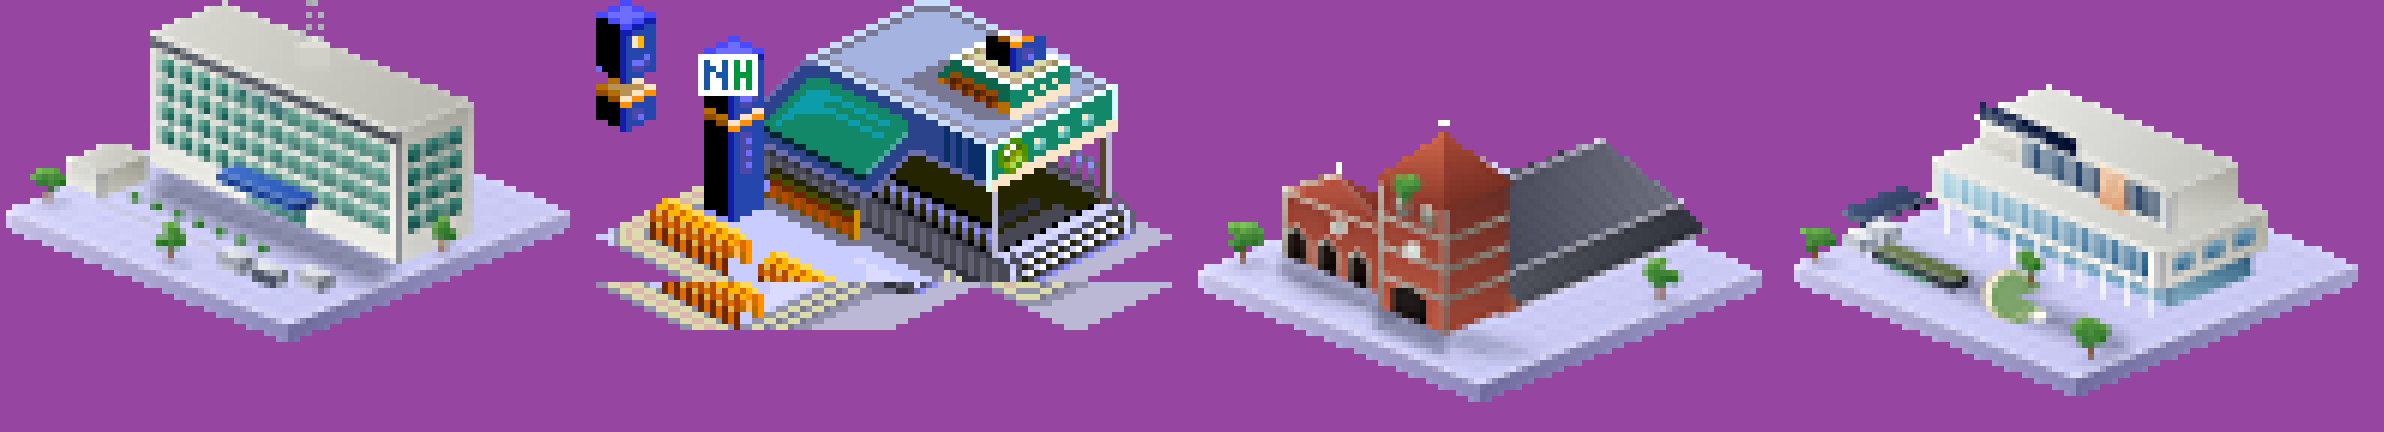
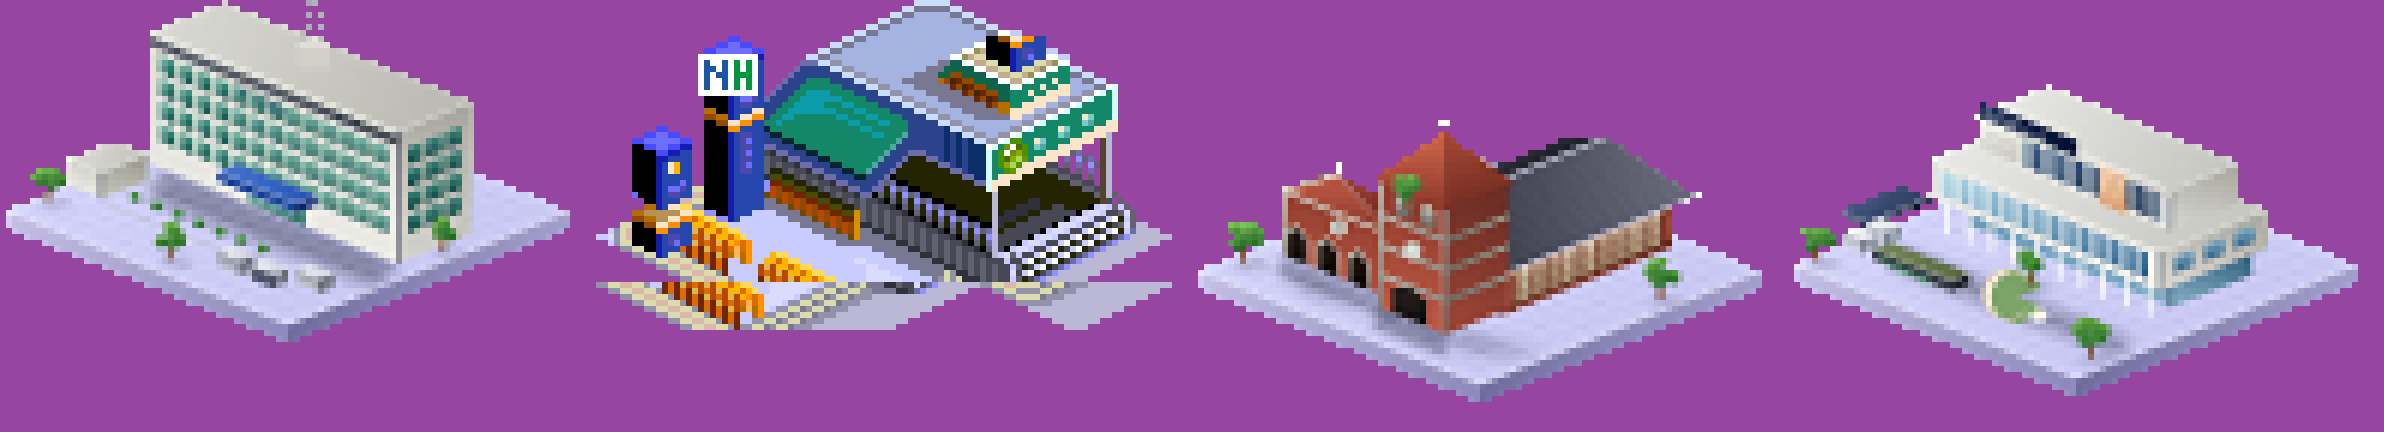
은행 조각 합치기(떠 있던 기둥 조각을 바닥에 세움)+NH 마크, 나바위성당 한옥 벽 노출
Claude-Session: https://claude.ai/code/session_01EzBQD2LzEZVCY5MfsDh6Mu

Changed region(s): [[0.2483, 0.0, 0.3104, 0.6019], [0.6208, 0.3611, 0.7139, 0.7222], [0.6208, 0.3009, 0.6829, 0.4213]]

diff --git a/seoultycoon/tools/make_iksan_civic.py b/seoultycoon/tools/make_iksan_civic.py
@@ -78,7 +78,14 @@ def nh_badge(im, x, y):
         for c in range(3):
             if Hh[r][c] == '1': px[x + 6 + c, y + 1 + r] = Gc
 def bank():
-    im = pak_entry('b12.d')
+    """원본 시트는 왼쪽 위에 기둥 조각(0..9, 0..21)이 바닥에서 떠 있다 → 떼어서 앞마당 왼쪽 모서리 바닥에 세운다. 그 뒤 큰 기둥에 NH 마크."""
+    im = pak_entry('b12.d'); px = im.load()
+    piece = im.crop((0, 0, 10, 22)); alpha = piece.split()[3]
+    for yy in range(22):
+        for xx in range(10):
+            if px[xx, yy][3]: px[xx, yy] = (0, 0, 0, 0)
+    bx, by = 6, 21                                                             # 기둥 조각 새 자리(바닥 왼쪽 모서리 위)
+    im.alpha_composite(piece, (bx, by))
     nh_badge(im, 17, 9)                                                       # 높은 파란 간판 기둥 위
     return im
 
@@ -87,32 +94,29 @@ def church():
     s = Sc(69, 13); G = s.G; s.ground(); d = ImageDraw.Draw(s.im)
     BR = (hx('c45e48'), hx('883a2e')); BR2 = (hx('a04838'), hx('662c24')); ST = (hx('c4c0b4'), hx('86827a'))
     s.shadow([G(0.14, 0.86), G(0.84, 0.86), G(1.0, 0.76), G(0.30, 0.90)], 100, 10)
-    # ---- 뒤쪽 한옥 예배당(앞뒤로 긴 건물): 붉은 벽 + 격자 창, 아래 처마 + 큰 팔작지붕 ----
-    a0, a1, b0, b1, zw = 0.34, 0.74, 0.08, 0.66, 5.8
-    s.box(a0, a1, b0, b1, zw, (hx('b86a52'), hx('8a4a3a')), (hx('b0604a'), hx('7e3e30')), (hx('5a2a22'), hx('3e1c18')))
-    for k in range(0, 9):                                                     # 오른쪽 벽 기둥 + 창(한옥식 살창)
-        b = b0 + 0.05 + (b1 - b0 - 0.10) * k / 8
-        s.line([G(a1, b, 0), G(a1, b, zw)], hx('5a2c22'), 4)
-    for k in range(0, 8):
-        bb0 = b0 + 0.05 + (b1 - b0 - 0.10) * (k + 0.2) / 8; bb1 = b0 + 0.05 + (b1 - b0 - 0.10) * (k + 0.8) / 8
-        s.grad([G(a1, bb0, 1.0), G(a1, bb1, 1.0), G(a1, bb1, 4.6), G(a1, bb0, 4.6)], hx('e8dcc0'), hx('8a8470'), (0, 1))
-        s.line([G(a1, (bb0 + bb1) / 2, 1.0), G(a1, (bb0 + bb1) / 2, 4.6)], hx('6a4a32'), 2)
-        s.line([G(a1, bb0, 2.8), G(a1, bb1, 2.8)], hx('6a4a32'), 2)
-    # 아래 처마 지붕(오른쪽으로 길게 내민 검은 기와) + 끝 들림
-    ov = 0.11; zr = zw + 0.2
-    s.grad([G(a1 + ov, b0 - 0.04, zr - 1.6), G(a1 + ov, b1 + 0.04, zr - 1.6), G(a1 - 0.01, b1 + 0.04, zr + 1.4), G(a1 - 0.01, b0 - 0.04, zr + 1.4)], hx('62646e'), hx('2c2e38'), (1, 0.3))
-    for k in range(1, 26):
-        b = b0 - 0.04 + (b1 - b0 + 0.08) * k / 26; s.line([G(a1 + ov, b, zr - 1.6), G(a1 - 0.01, b, zr + 1.4)], hx('22242c', 140), 2)
-    s.line([G(a1 + ov, b0 - 0.04, zr - 1.6), G(a1 + ov, b1 + 0.04, zr - 1.6)], hx('d4d0e0'), 4)
-    # 큰 지붕: 오른쪽 경사면(밝은 기와) + 왼쪽 경사면 + 용마루 (용마루는 앞뒤 방향)
-    RZ = 7.4; am = (a0 + a1) / 2; zt = zr + 1.4
-    s.grad([G(a0 - 0.02, b0 - 0.04, zt), G(a0 - 0.02, b1 + 0.04, zt), G(am, b1 - 0.02, zt + RZ), G(am, b0 + 0.02, zt + RZ)], hx('3a3c46'), hx('1e2028'), (1, 0.2))
-    s.grad([G(a1 + 0.02, b0 - 0.04, zt), G(a1 + 0.02, b1 + 0.04, zt), G(am, b1 - 0.02, zt + RZ), G(am, b0 + 0.02, zt + RZ)], hx('7e8090'), hx('3e404e'), (-1, 0.3), 3)
-    for k in range(1, 28):
-        b = b0 - 0.04 + (b1 - b0 + 0.08) * k / 28; bb = b0 + 0.02 + (b1 - b0 - 0.04) * k / 28
-        s.line([G(a1 + 0.02, b, zt), G(am, bb, zt + RZ)], hx('26283a', 130), 2)
-    s.line([G(am, b0 + 0.02, zt + RZ), G(am, b1 - 0.02, zt + RZ)], hx('c4c0d4'), 5)
-    s.line([G(a1 + 0.02, b0 - 0.04, zt), G(a1 + 0.02, b1 + 0.04, zt)], hx('dcd8e8'), 4)
+    # ---- 뒤쪽 한옥 예배당(앞뒤로 긴 건물): 높은 붉은 벽 + 기둥 + 격자 창살이 훤히 보이고, 얕은 처마의 팔작지붕이 위에 얹힌다 ----
+    a0, a1, b0, b1, zw = 0.34, 0.74, 0.06, 0.66, 8.4
+    s.box(a0, a1, b0, b1, zw, (hx('c0705a'), hx('90503e')), (hx('b86650'), hx('84402f')), (hx('5a2a22'), hx('3e1c18')))
+    for z in (0.9, 7.6): s.line([G(a1, b0, z), G(a1, b1, z)], hx('5a2c22'), 5)                   # 도리(가로 보)
+    for k in range(0, 10):                                                    # 오른쪽 벽: 붉은 기둥 + 한옥 살창(격자) + 흰 회벽 판
+        b = b0 + 0.04 + (b1 - b0 - 0.08) * k / 9
+        s.line([G(a1, b, 0), G(a1, b, zw)], hx('6a2e22'), 5)
+    for k in range(0, 9):
+        bb0 = b0 + 0.04 + (b1 - b0 - 0.08) * (k + 0.12) / 9; bb1 = b0 + 0.04 + (b1 - b0 - 0.08) * (k + 0.88) / 9
+        s.grad([G(a1, bb0, 1.2), G(a1, bb1, 1.2), G(a1, bb1, 6.6), G(a1, bb0, 6.6)], hx('f2e8d0'), hx('b4a888'), (0, 1))
+        for q in range(1, 4): s.line([G(a1, bb0 + (bb1 - bb0) * q / 4, 1.2), G(a1, bb0 + (bb1 - bb0) * q / 4, 6.6)], hx('7a4a30'), 2)
+        for z in (2.8, 4.4): s.line([G(a1, bb0, z), G(a1, bb1, z)], hx('7a4a30'), 2)
+    # 얕은 처마 + 큰 팔작지붕(검은 기와, 뒤쪽은 합각): 벽을 가리지 않도록 처마를 짧게 내민다
+    ov = 0.045; zr = zw + 0.1; RZ = 6.6; am = (a0 + a1) / 2
+    s.grad([G(a0 - ov, b0 - ov, zr), G(a0 - ov, b1 + ov, zr), G(am, b1 - 0.03, zr + RZ), G(am, b0 + 0.03, zr + RZ)], hx('3a3c46'), hx('1e2028'), (1, 0.2))
+    s.grad([G(a1 + ov, b0 - ov, zr), G(a1 + ov, b1 + ov, zr), G(am, b1 - 0.03, zr + RZ), G(am, b0 + 0.03, zr + RZ)], hx('7a7c8c'), hx('3a3c4a'), (-1, 0.3), 3)
+    for k in range(1, 30):
+        b = b0 - ov + (b1 - b0 + 2 * ov) * k / 30; bb = b0 + 0.03 + (b1 - b0 - 0.06) * k / 30
+        s.line([G(a1 + ov, b, zr), G(am, bb, zr + RZ)], hx('26283a', 130), 2)
+    s.line([G(a1 + ov, b0 - ov, zr), G(a1 + ov, b1 + ov, zr)], hx('e4e0f0'), 4)             # 처마 끝 선
+    s.line([G(am, b0 + 0.03, zr + RZ), G(am, b1 - 0.03, zr + RZ)], hx('c4c0d4'), 5)
+    for bb in (b0 - ov, b1 + ov):                                             # 추녀마루 끝이 살짝 들린다
+        x, y = G(a1 + ov, bb, zr); d.line([(x, y), (x + 12, y - 6)], fill=hx('e4e0f0'), width=4)
     # ---- 앞쪽 서양식 고딕 파사드: 붉은 벽돌 + 회색 석재 + 뾰족 아치 출입구 + 박공 + 십자가 ----
     fa0, fa1, fb0, fb1, fh = 0.08, 0.48, 0.64, 0.78, 10.5
     s.shadow([G(fa0, fb1), G(fa1, fb1), G(fa1 + 0.10, fb1 + 0.10), G(fa0 + 0.08, fb1 + 0.10)], 80, 6)
